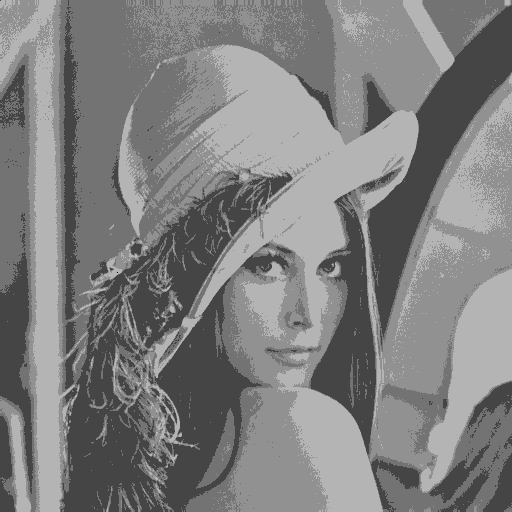
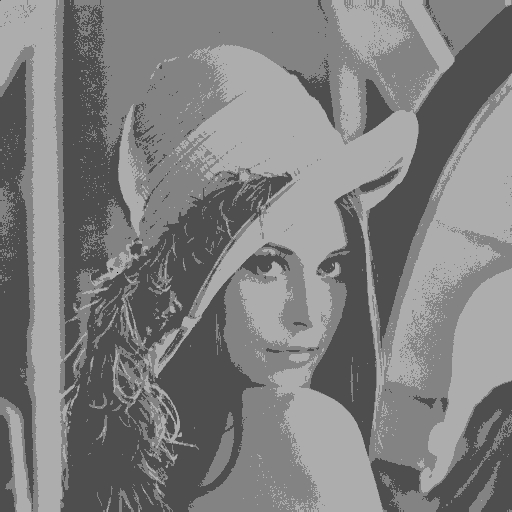
added arguments and comments

diff --git a/code/generlize.c b/code/generlize.c
@@ -10,8 +10,8 @@
 #define STB_IMAGE_WRITE_IMPLEMENTATION
 #include "stb/stb_image_write.h"
 
-
-#define NUMBER_OF_COLORS 4
+//old way of doing it. specify args when running the code
+// #define NUMBER_OF_COLORS 3
 #define MAX_COLOR 255
 #define MIN_COLOR 0
 
@@ -20,7 +20,7 @@ struct pixel{
     int index;
 };
 
-void generlize(char *picture_name){
+void generlize(char *picture_name, char *output_filename, int number_of_colors){
     int width, height, channels;
     const char *fname = picture_name;
 
@@ -47,6 +47,7 @@ void generlize(char *picture_name){
     }
 
     //sort the list according to value
+    //FIXME - this can be improved with a diffrent type sort
     struct pixel temp;
     for(int i = 1; i <= (width*height); i++){
         for(int j = i; j >= 0; j--){
@@ -60,14 +61,10 @@ void generlize(char *picture_name){
         }
     }
 
-    // for(int i = 0; i < (width*height); i++){
-    //     printf("index : %i | value : %i\n", mypixels[i].index, mypixels[i].value);
-    // }
-
     int max_value = mypixels[(height*width)-1].value;
     int min_value = mypixels[0].value;
-    int interable_value = (width*height)/NUMBER_OF_COLORS;
-    int grouped_values[NUMBER_OF_COLORS];
+    int interable_value = (width*height)/number_of_colors;
+    int grouped_values[number_of_colors];
 
     int count = 0;
     int average = 0;
@@ -86,9 +83,6 @@ void generlize(char *picture_name){
         }
     }
 
-    // for(int i = 0; i < NUMBER_OF_COLORS; i++){
-    //     printf("grouped colors %i : %i\n", i+1, grouped_values[i]);
-    // }
     count = 0;
     for(int i = 0; i < (height*width); i++){
         for(int j = 0; j < 3; j++){
@@ -102,7 +96,7 @@ void generlize(char *picture_name){
         }
     }
 
-    stbi_write_jpg("generlized_image.png", width, height, channels, new_img, 100);
+    stbi_write_jpg(output_filename, width, height, channels, new_img, 100);
     stbi_image_free(img);
     stbi_image_free(new_img);
 }
@@ -111,17 +105,29 @@ void generlize(char *picture_name){
 int main(int argc, char *argv[]){
     //get the filename. same as blackandwhite.c
     char *filename = (char *)malloc(sizeof(char) * 100);
+    char *output_filename = (char *)malloc(sizeof(char) * 100);
+    int numberofcolors;
     while(*argv){
         if(strcmp(*argv, "-f") == 0 || strcmp(*argv, "--filename") == 0){ //filename exists in arguments
+            if(*(argv+1)){ //filename is there
+                filename = *(argv+1);
+            }
+        }else if(strcmp(*argv, "-c") == 0 || strcmp(*argv, "--colornums") == 0){ //filename exists in arguments
+            if(*(argv+1)){ //filename is there
+                numberofcolors = atoi(*(argv+1));
+            }
+        }else if(strcmp(*argv, "-o") == 0 || strcmp(*argv, "--outputfilename") == 0){ //filename exists in arguments
             if(*(argv+1)){ //filename is there
                 filename = *(argv+1);
             }
         }
         argv++;
     }
-    if(strcmp(filename,"")){
-        generlize(filename);
+    if(strcmp(filename,"") && strcmp(output_filename,"") && numberofcolors > 0){
+        generlize(filename, output_filename, numberofcolors);
+    }else{
+        //filename not given or number of colors is not right
+        printf("args are not correct");
     }
-
-
+    return 0;
 }

diff --git a/code/blackandwhite_sequential.c b/code/blackandwhite_sequential.c
@@ -10,7 +10,7 @@
 #define STB_IMAGE_WRITE_IMPLEMENTATION
 #include "stb/stb_image_write.h"
 
-void color_to_bnw(char *picture_name){
+void color_to_bnw(char *picture_name, char *output_filename){
     int width, height, channels;
     const char *fname = picture_name;
 
@@ -35,7 +35,7 @@ void color_to_bnw(char *picture_name){
         }
     }
 
-    stbi_write_jpg("bnwimage.png", width, height, channels, new_img, 100);
+    stbi_write_jpg(output_filename, width, height, channels, new_img, 100);
     stbi_image_free(img);
     stbi_image_free(new_img);
 }
@@ -44,17 +44,23 @@ void color_to_bnw(char *picture_name){
 int main(int argc, char *argv[]){
     //runner for the black and white code
     char *filename = (char *)malloc(sizeof(char) * 100);
+    char *output_filename = (char *)malloc(sizeof(char) * 100);
     while(*argv){
         if(strcmp(*argv, "-f") == 0 || strcmp(*argv, "--filename") == 0){ //filename exists in arguments
             if(*(argv+1)){ //filename is there
                 filename = *(argv+1);
             }
+        }else if(strcmp(*argv, "-o") == 0 || strcmp(*argv, "--outputfilename") == 0){ //filename exists in arguments
+            if(*(argv+1)){ //filename is there
+                output_filename = *(argv+1);
+            }
         }
         argv++;
     }
-    if(strcmp(filename,"")){
-        color_to_bnw(filename);
+    if(strcmp(filename,"") && strcmp(output_filename, "")){
+        color_to_bnw(filename, output_filename);
+    }else{
+        printf("args are not correct");
     }
-
     return 0;
 }
